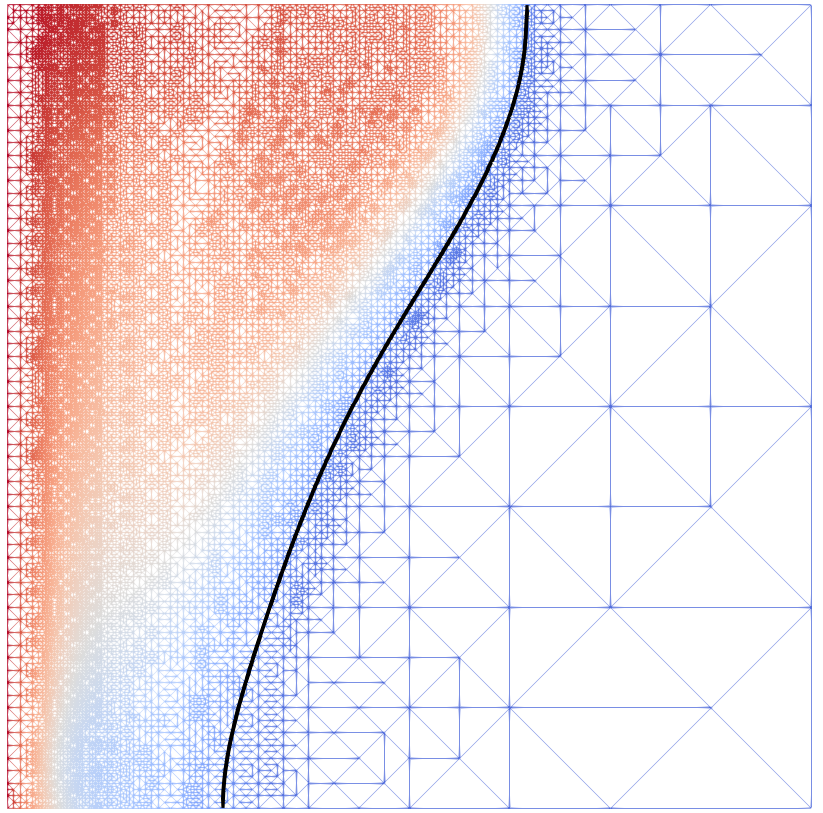
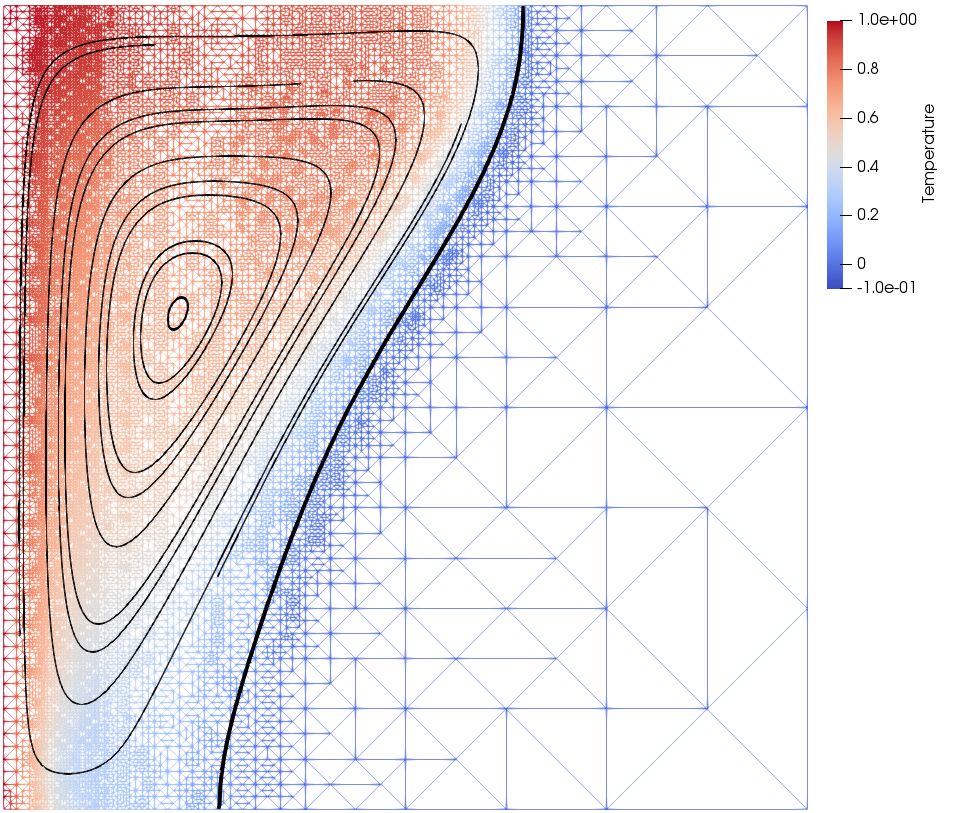
Updated README and images

diff --git a/README.md b/README.md
@@ -1,11 +1,12 @@
 # phaseflow-fenics
-Phaseflow simulates the melting and solidification of phase-change materials (PCM).
-
-Phaseflow adopts an enthalpy-based, single domain phase-field, variable viscosity approach, with monolithic system coupling and global Newton linearization of the system of nonlinear partial differential equations (PDE's). The system is composed of
-- Incompressible flow driven by buoyancy: unsteady Navier-Stokes momentum and mass (penalty formulation) with Boussinesq approximation
+Phaseflow simulates the convection-coupled melting and solidification of phase-change materials (PCM's). We adopt an enthalpy-based, single-domain semi-phase-field, finite element method, with monolithic system coupling and global Newton linearization.
+The model system is composed of
+- Incompressible flow driven by buoyancy: unsteady Navier-Stokes mass and momentum with Boussinesq approximation
 - Convection-diffusion of the enthalpy field, with an enthalpy source term accounting for the latent heat of the phase-change material
 
-Phaseflow spatially discretizes the PDE's with the finite element method, and to this end uses the Python/C++ finite element library [FEniCS](https://fenicsproject.org/). Many other features are provided by FEniCS, including the Newton iterative algorithm and solution output to HDF5, among others.
+Phaseflow spatially discretizes the PDE's with the finite element method, and to this end uses the Python/C++ finite element library [FEniCS](https://fenicsproject.org/). Many other features are provided by FEniCS, including the nonlinear (Newton) solver and solution output to HDF5, among others.
+
+We present Phaseflow and benchmark results in a [submitted proceedings paper, with the preprint here on arXiv](https://arxiv.org/abs/1801.03429).
 
 Author: Alexander G. Zimmerman <zimmerman@aices.rwth-aachen.de>
 
@@ -20,7 +21,7 @@ Author: Alexander G. Zimmerman <zimmerman@aices.rwth-aachen.de>
 
 - Thermal convection: the momentum equation includes a temperature-based bouyancy force per the Boussinesq approximation
 
-    Benchmark: Natural convection of air
+    Benchmark: Natural convection of air (i.e. the heat-driven cavity)
     
     <img src="./docs/images/NaturalConvectionAir.png" width="480">
     
@@ -32,24 +33,22 @@ Author: Alexander G. Zimmerman <zimmerman@aices.rwth-aachen.de>
     
 - Phase-change: The energy equation written in enthalpy form, with latent heat sources/sinks from the phase-change
 
-    Benchmark: Stefan problem
+    Benchmark: Stefan problem (melting without convection)
     
     <img src="./docs/images/StefanProblem.png" width="480">
     
 - Variable viscosity: Apply the same momentum equation throughout the single phase-change material domain
 
-    Test: Analogy of lid-driven cavity
+    Test: Analogy of lid-driven cavity, with a solid sub-domain outside of the unit square
     
     <img src="./docs/images/VariableViscosity.png" width="480">
     
 - Monolithic coupling of all of the above features
 
-    Qualitatively correct, still need to reproduce benchmark
+    Benchmark: Convection-coupled melting of an octadecane PCM
     
     <img src="./docs/images/MeltingPCM.png" width="480">
 
-## References
-- Danaila, I., Moglan, R., Hecht, F., & Le Masson, S. (2014). A Newton method with adaptive finite elements for solving phase-change problems with natural convection. Journal of Computational Physics, 826-840.
     
 # For users:
 ## [Docker](https://www.docker.com)
